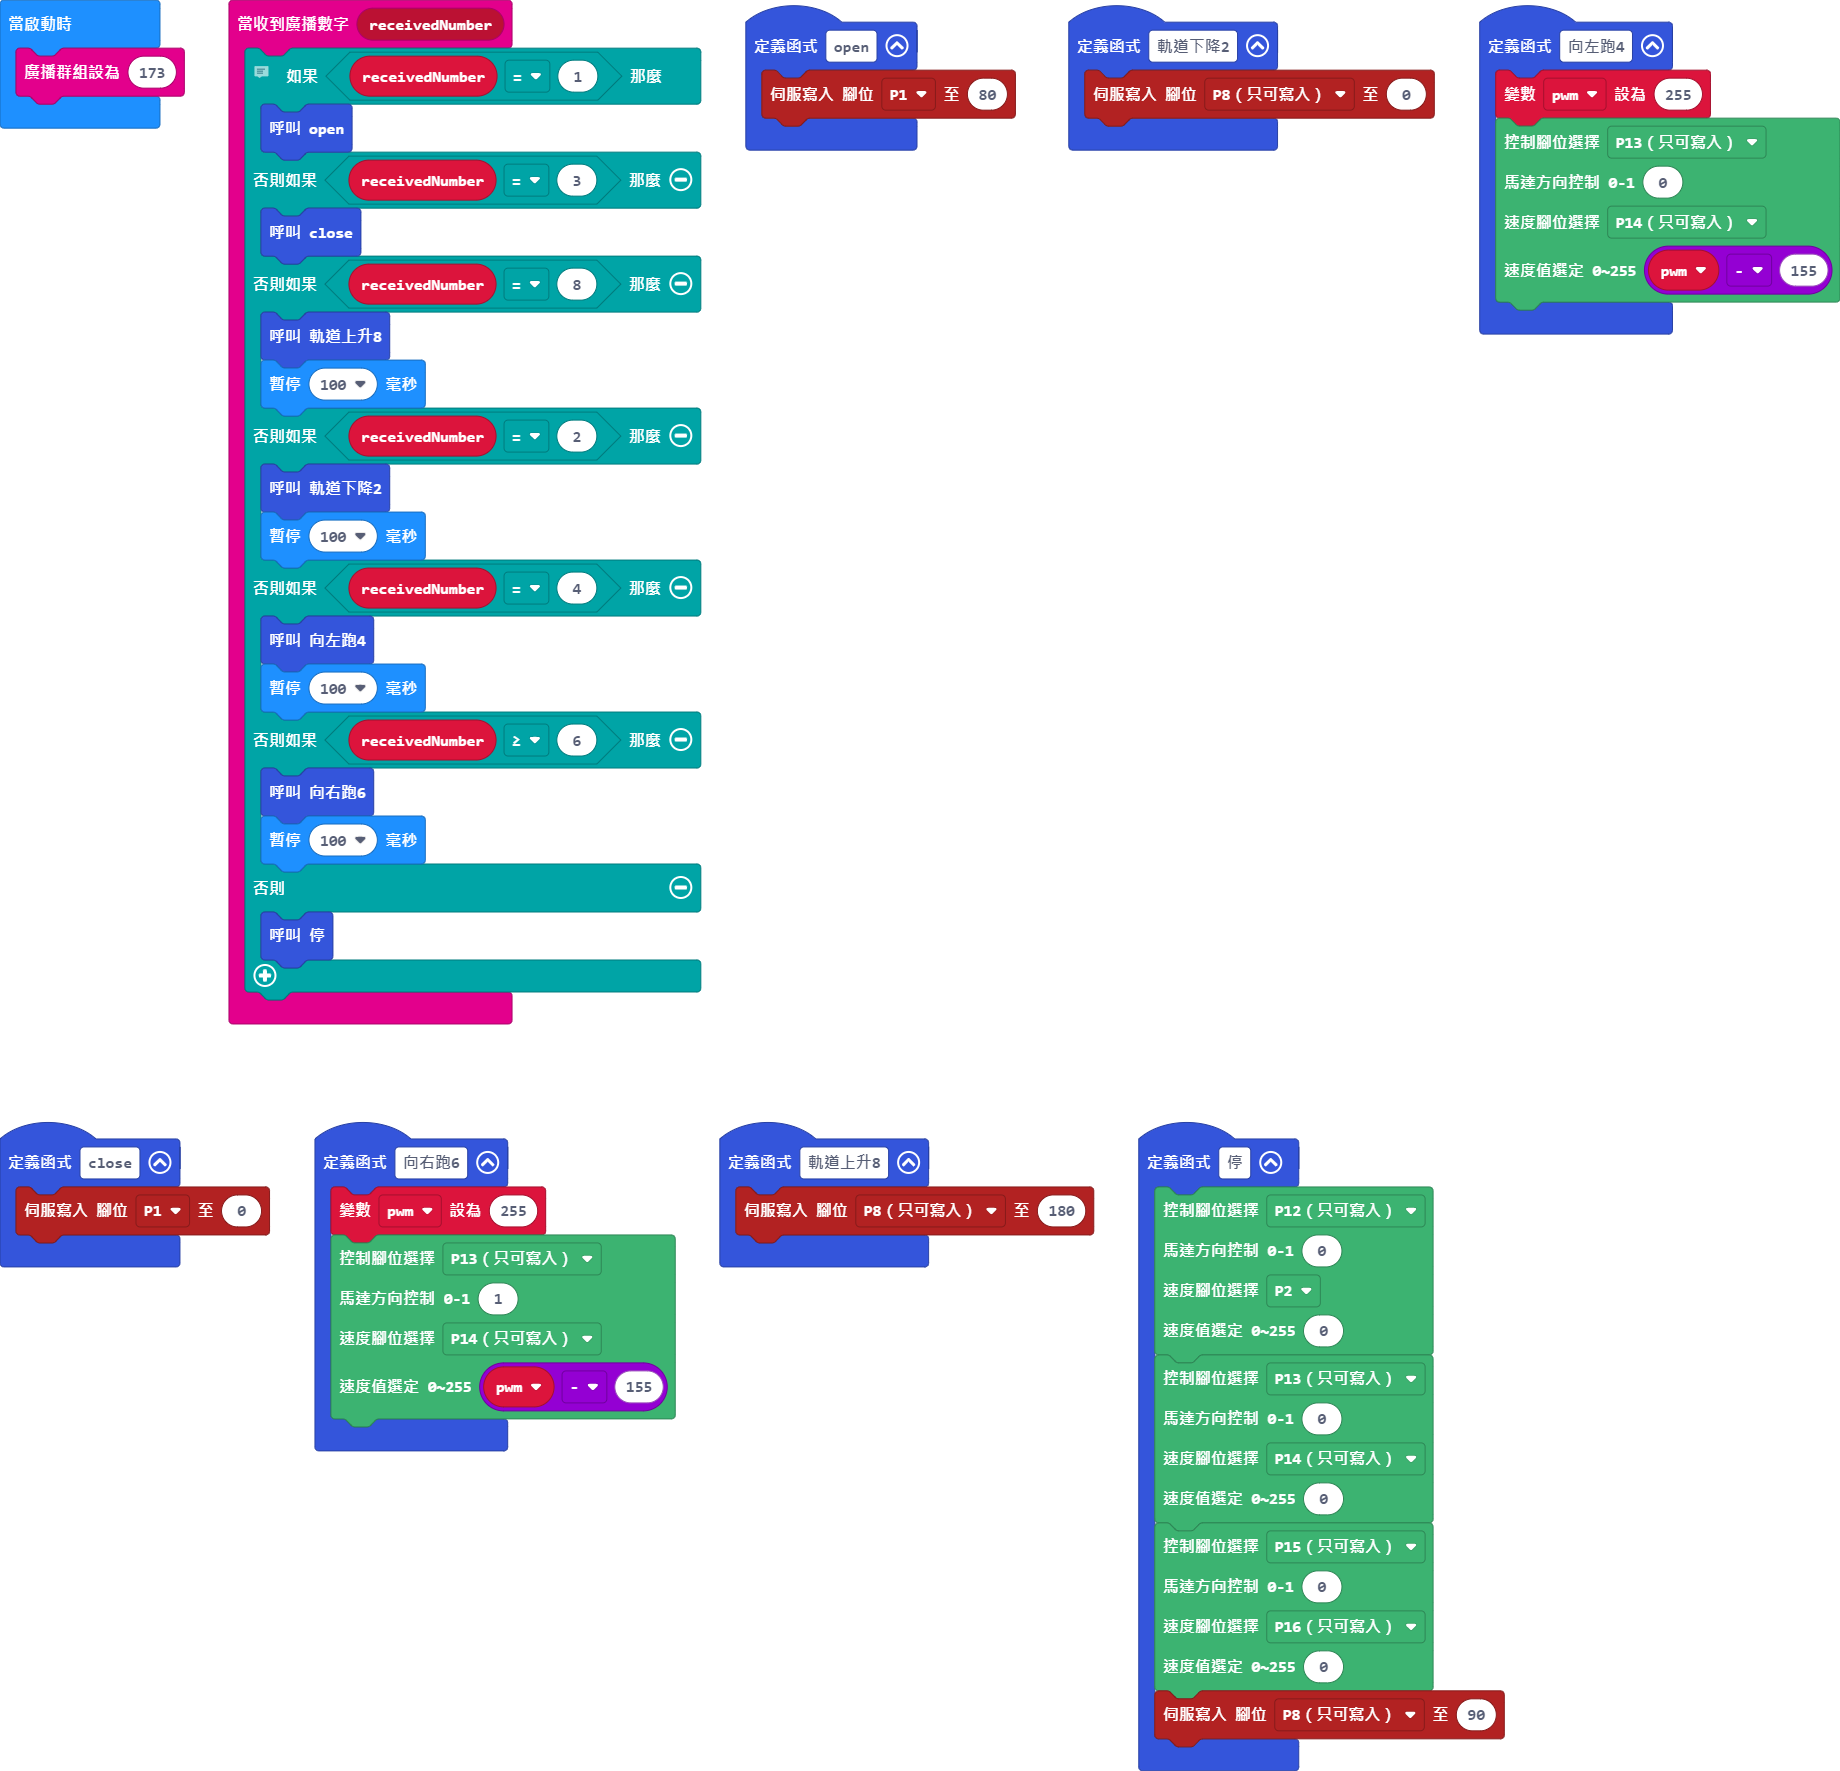
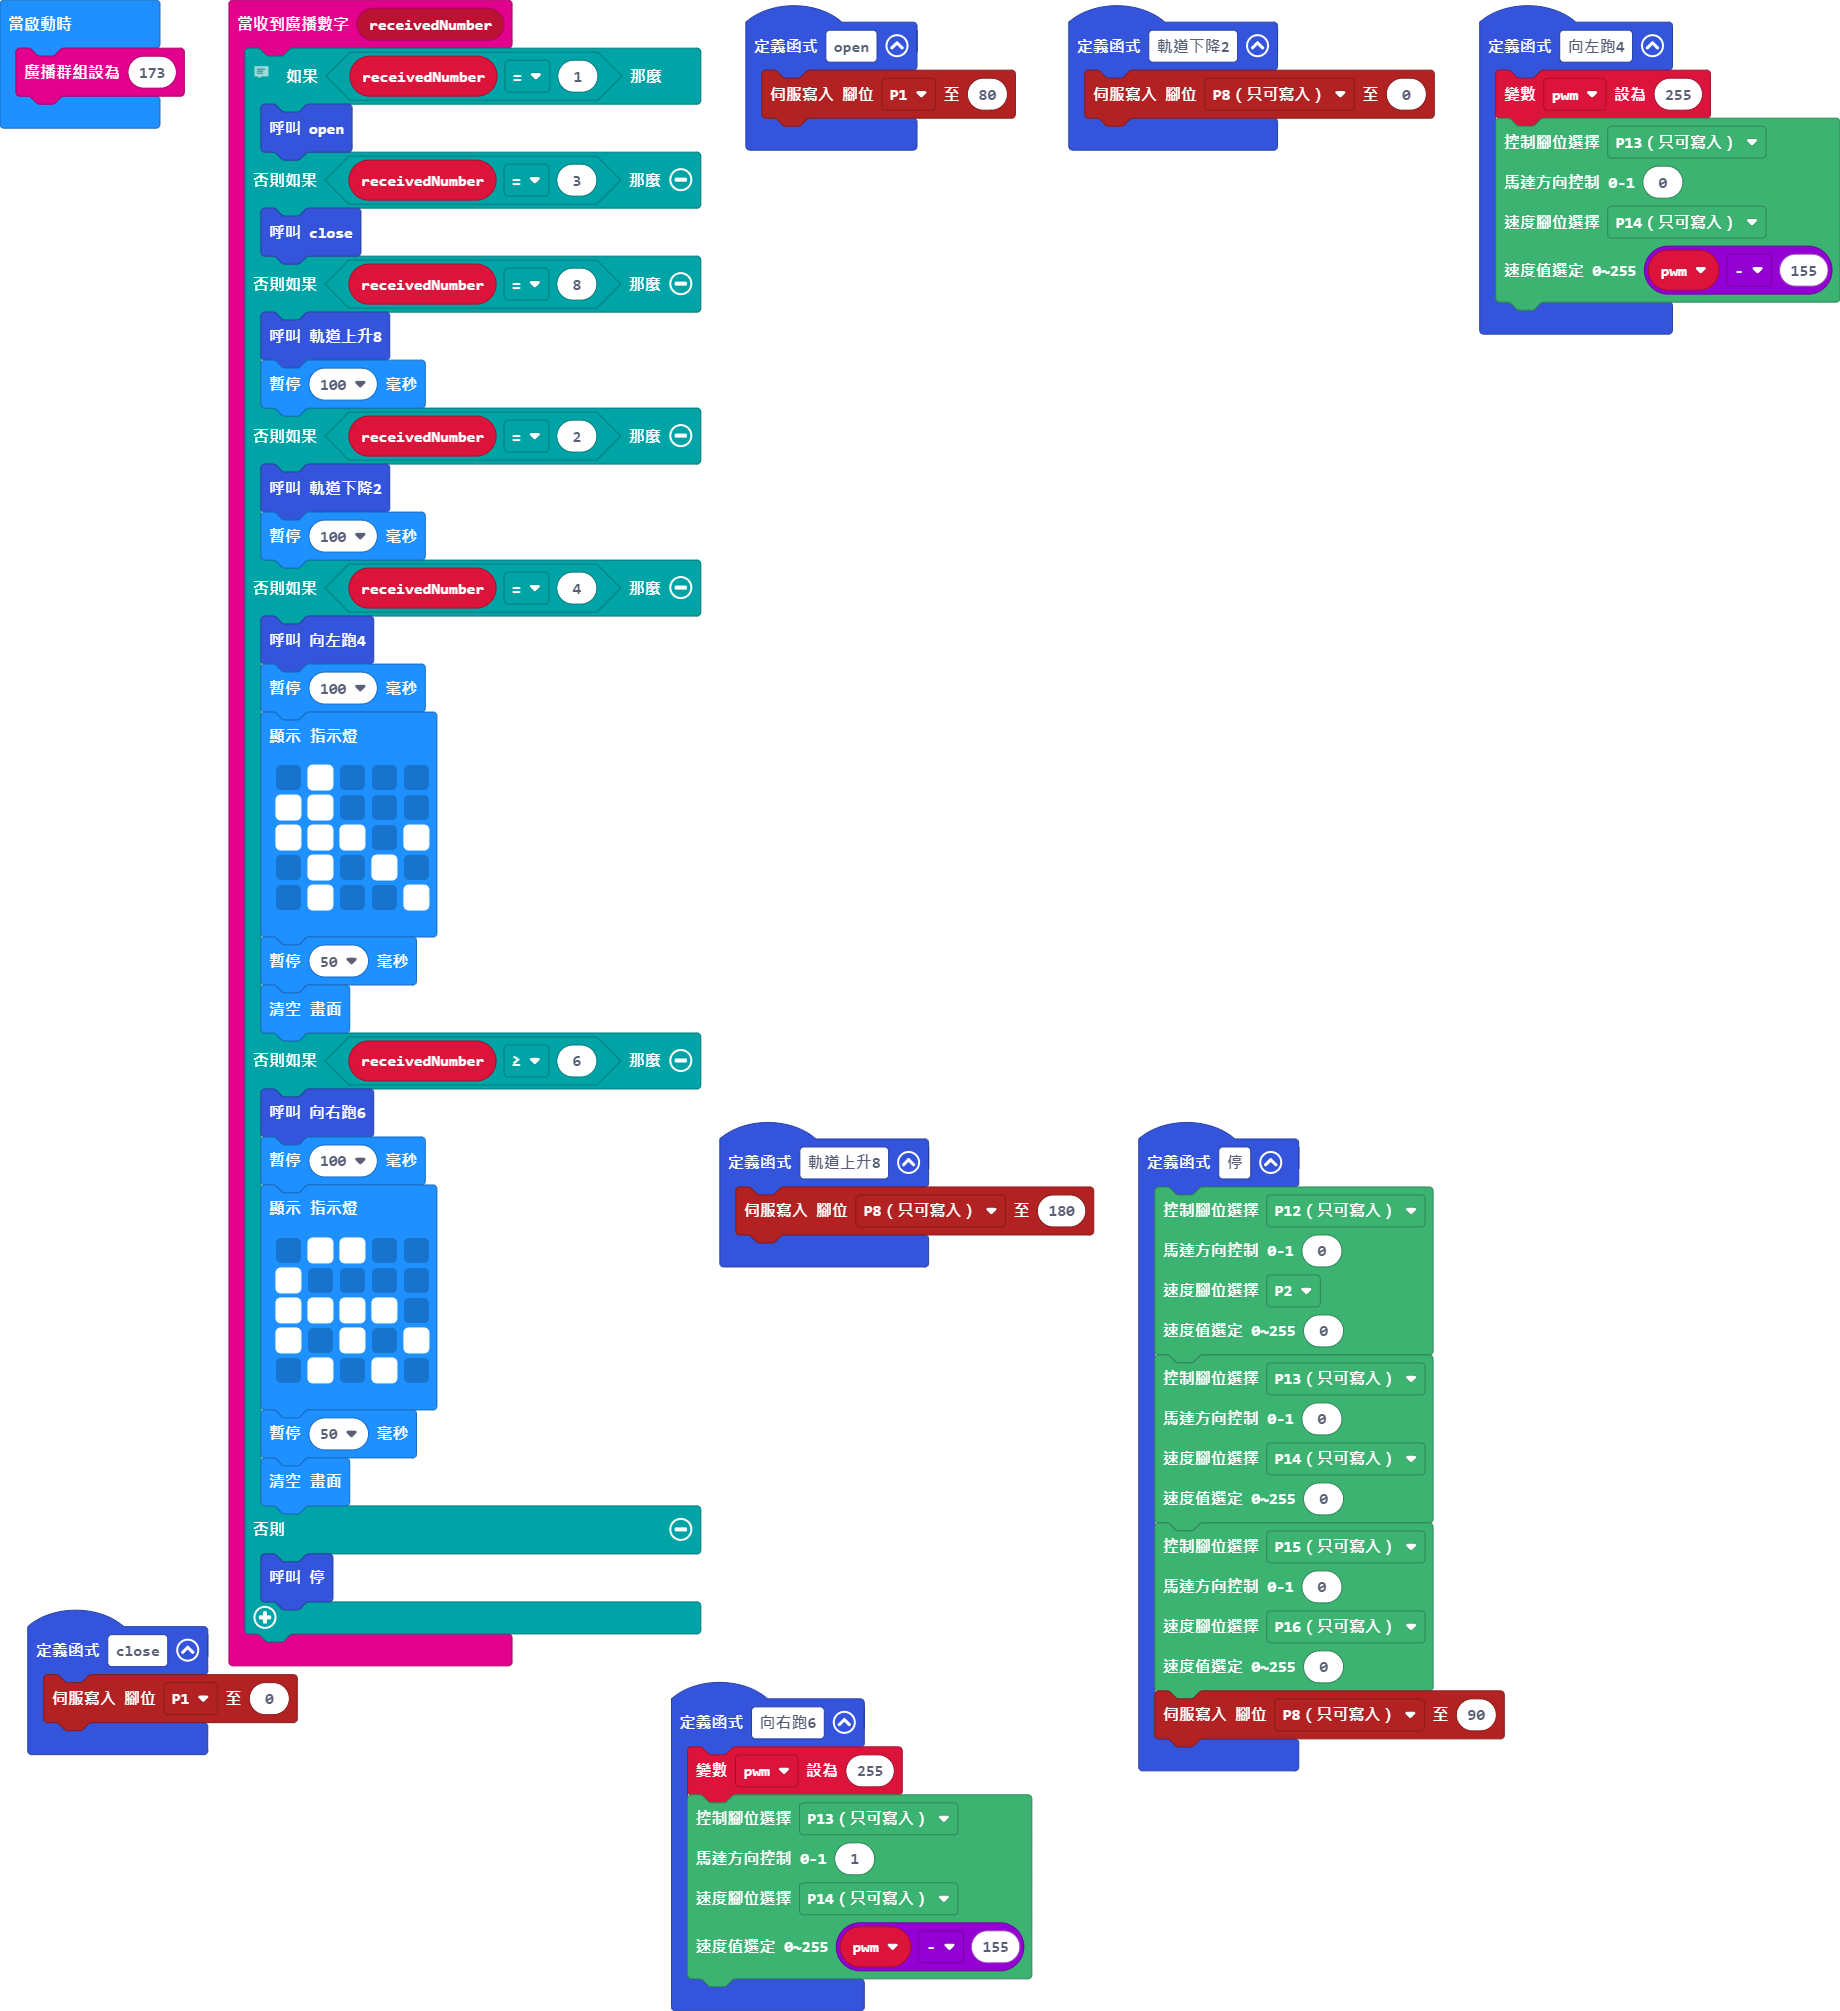
更新 main.blocks, main.ts

diff --git a/main.ts b/main.ts
@@ -23,9 +23,27 @@ radio.onReceivedNumber(function (receivedNumber) {
     } else if (receivedNumber == 4) {
         向左跑4()
         basic.pause(100)
+        basic.showLeds(`
+            . # . . .
+            # # . . .
+            # # # . #
+            . # . # .
+            . # . . #
+            `)
+        basic.pause(50)
+        basic.clearScreen()
     } else if (receivedNumber >= 6) {
         向右跑6()
         basic.pause(100)
+        basic.showLeds(`
+            . # # . .
+            # . . . .
+            # # # # .
+            # . # . #
+            . # . # .
+            `)
+        basic.pause(50)
+        basic.clearScreen()
     } else {
         停()
     }
